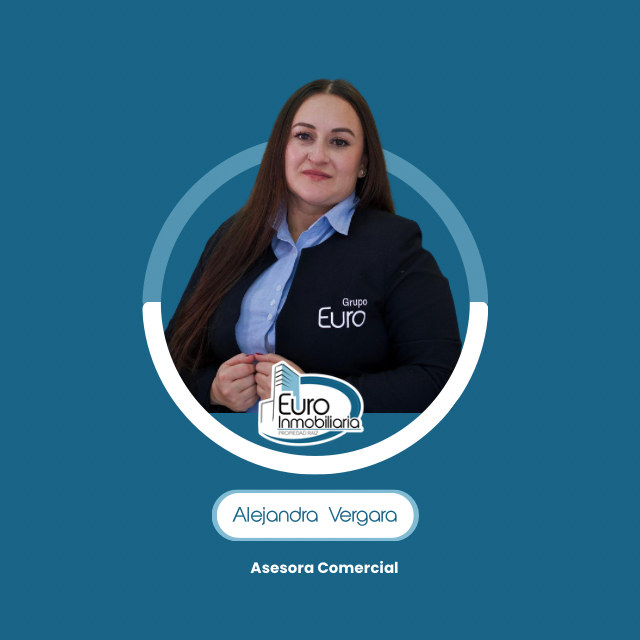
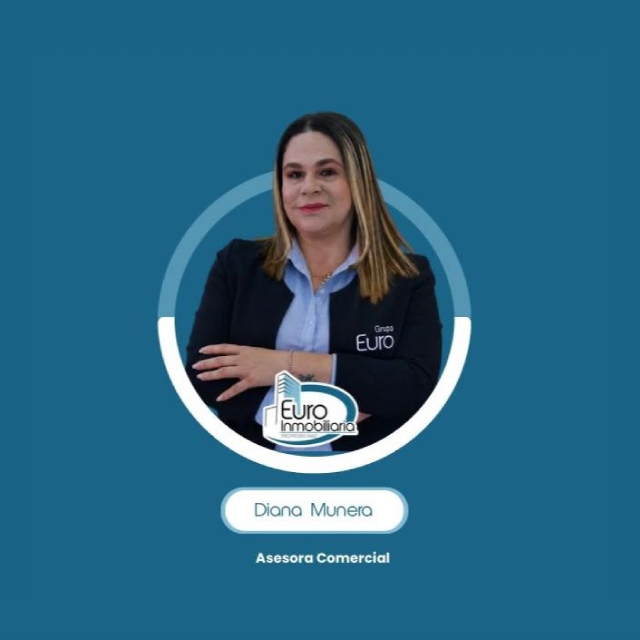
Asesor Nuevo Actualizado, Aleja Vergara por Diana Munera

Changed region(s): [[0.2188, 0.125, 0.7812, 0.9062]]

diff --git a/components/sections/AgentsSection.tsx b/components/sections/AgentsSection.tsx
@@ -13,7 +13,7 @@ const AGENTS = [
   },
   {
     photo: "/asesores/asesor-02.jpg",
-    name: "Alejandra Vergara",
+    name: "Diana Munera",
     role: "Asesora Comercial",
     properties: 38,
     rating: "4.8",
